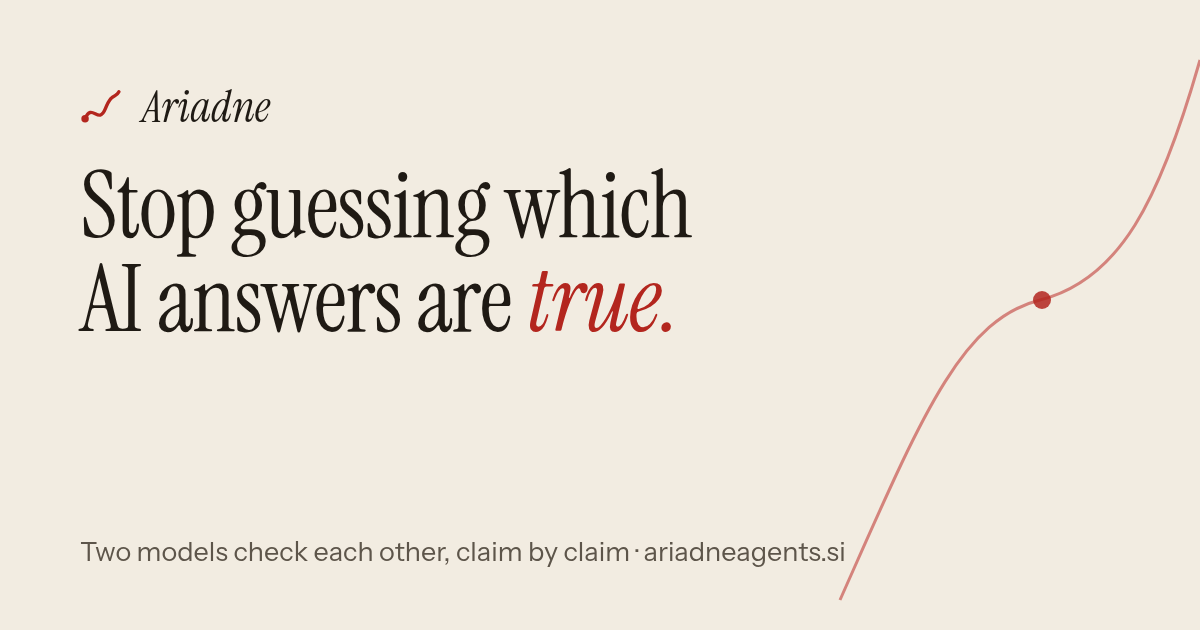
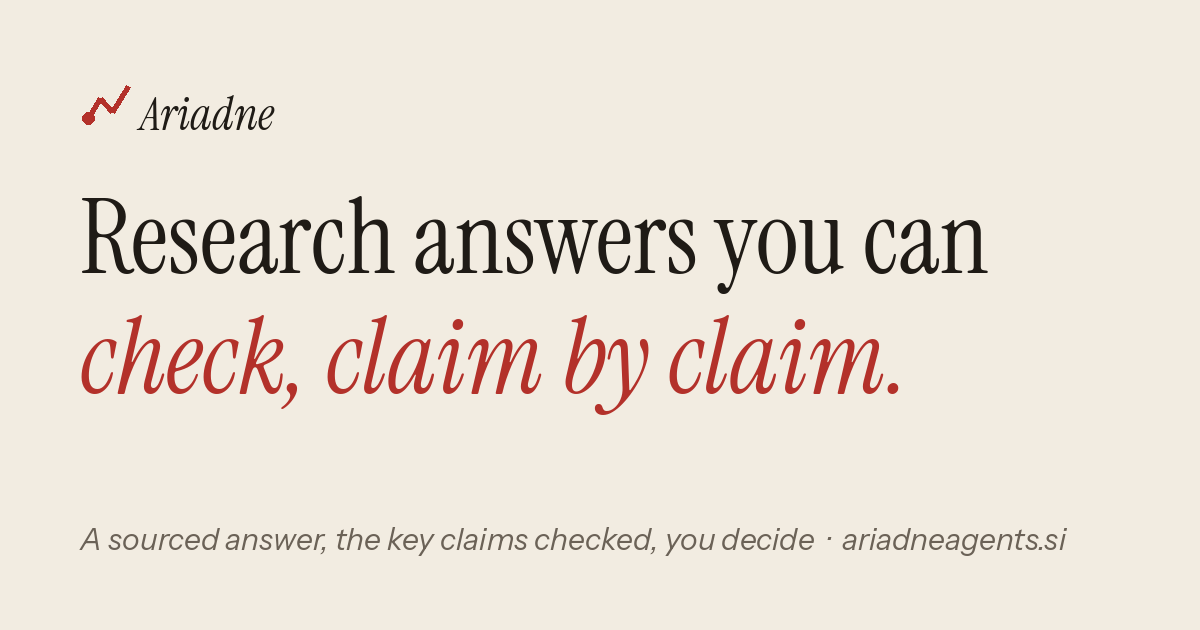
Copy matches the checker: the key claims are checked in full, the rest listed; neutral sample question on New project

diff --git a/app/page.tsx b/app/page.tsx
@@ -12,7 +12,7 @@ import "./landing.css";
 
 const TITLE = "Ariadne · Fact-checked research, claim by claim";
 const DESCRIPTION =
-  "Ariadne drafts a sourced answer to your research question, checks every claim against your sources and the web, and lets you decide on anything flagged. You approve the result and keep the full record.";
+  "Ariadne drafts a sourced answer to your research question, checks the key claims against your sources and the web, and lets you decide on anything flagged. You approve the result and keep the full record.";
 
 export const metadata: Metadata = {
   title: { absolute: TITLE },
@@ -37,7 +37,7 @@ const CF_BEACON = process.env.NEXT_PUBLIC_CF_BEACON_TOKEN;
 const STEPS = [
   { n: "1", who: "You", title: "Ask your question", text: "Write what you need to know and who it is for, and add the papers, reports or notes it should draw on." },
   { n: "2", who: "Odysseus", title: "Get a sourced draft", text: "Odysseus writes an answer with a citation next to each claim. Not quite right? Say what to change and it redrafts." },
-  { n: "3", who: "Daedalus", title: "Every claim is checked", text: "Daedalus checks each claim against your sources and the web, and shows the evidence and the link for its verdict." },
+  { n: "3", who: "Daedalus", title: "The key claims are checked", text: "Daedalus checks the claims that matter most in full against your sources and the web, with the evidence and a link for each verdict. Any others are listed so you can see what was not checked." },
   { n: "4", who: "You", title: "Decide, approve, keep the record", text: "You accept, edit or reject what is flagged. Odysseus revises, you approve, and the whole thread is yours to export." },
 ];
 
@@ -57,7 +57,7 @@ const GETS = [
 ];
 
 const FAQ = [
-  { q: "What do Odysseus and Daedalus do?", a: "Odysseus writes: it drafts the answer from your brief and sources and revises it with your decisions. Daedalus checks: it reviews each claim against your sources and the web and shows its evidence. You make the calls in between." },
+  { q: "What do Odysseus and Daedalus do?", a: "Odysseus writes: it drafts the answer from your brief and sources and revises it with your decisions. Daedalus checks: it reviews the claims that matter most against your sources and the web, shows its evidence, and lists any it did not check in full. You make the calls in between." },
   { q: "Does a check mean the answer is guaranteed correct?", a: "No. The check tells you which claims a source supports and which need your attention, and shows you why. You remain the judge of the final answer." },
   { q: "What sources can I add?", a: "PDF, DOCX and Markdown files. Their text is read in your browser and used for the draft and the check. Daedalus can also search the web." },
   { q: "Who can see my projects?", a: "Only you. The Ariadne team cannot open your projects unless you choose to share one with us when you send feedback, and you can withdraw that in Settings." },
@@ -129,7 +129,7 @@ export default function Landing() {
                 Research answers you can <em>check, claim by claim.</em>
               </h1>
               <p className="lp-lede">
-                Ariadne drafts a sourced answer to your question, reviews every claim against your sources and the web, and
+                Ariadne drafts a sourced answer to your question, checks the key claims against your sources and the web, and
                 brings you only what needs a decision. You approve the result and keep the full record.
               </p>
               <div className="lp-cta">

diff --git a/components/NewProjectFlow.tsx b/components/NewProjectFlow.tsx
@@ -23,7 +23,7 @@ export function draftBrief(goal: string, details: string, files: { name: string;
 
 // A real, checkable question with a public authoritative source (root-servers.org).
 // The app never states the answer itself; the models find it and Daedalus checks it.
-const SAMPLE_GOAL = "How many DNS root server instances are in Canada?";
+const SAMPLE_GOAL = "What do recent systematic reviews say about exercise therapy for chronic low back pain?";
 const SAMPLE_DETAILS =
   "Give the current count of root server instances located in Canada, which root servers (letters) they belong to, and the cities. Use root-servers.org as the authoritative source and give the date of the data.";
 
@@ -104,7 +104,7 @@ export function NewProjectFlow({ runsLeft, runsLimit }: { runsLeft: number; runs
       {step === "describe" ? (
         <div className="mt-6 space-y-5">
           <p className="text-sm leading-normal text-ink-dim">
-            Odysseus answers from your brief and files. When the draft looks right to you, Daedalus checks each claim against your files and the web. You judge only what it flags.
+            Odysseus answers from your brief and files. When the draft looks right to you, Daedalus checks the key claims against your files and the web. You judge only what it flags.
           </p>
           <div className="text-sm">
             <span className="text-ink-dim">Sample question: </span>

diff --git a/components/IntroTour.tsx b/components/IntroTour.tsx
@@ -12,8 +12,8 @@ const STEPS = [
     body: "Read the draft. If it is what you asked for, move on to the check. If not, tell Odysseus what to change and it redrafts.",
   },
   {
-    title: "Daedalus checks each claim",
-    body: "Every claim is checked against your sources and the web, with the evidence and a link. You decide on what is flagged: accept, edit or reject.",
+    title: "Daedalus checks the key claims",
+    body: "The claims that matter most are checked against your sources and the web, with the evidence and a link; any others are listed as not checked in full. You decide on what is flagged: accept, edit or reject.",
   },
   {
     title: "Tie off, approve, keep the record",

diff --git a/lib/one-liner.ts b/lib/one-liner.ts
@@ -3,7 +3,7 @@
  * first-run "What are you making?" dialog, so the three never drift apart.
  */
 export const ONE_LINER =
-  "Ariadne drafts a sourced answer to your research question, checks every claim against your sources and the web, and brings you only what needs a decision.";
+  "Ariadne drafts a sourced answer to your research question, checks the key claims against your sources and the web, and brings you only what needs a decision.";
 
 /** The wedge, in order. "Tie off" is the knot. */
 export const WEDGE_STEPS = ["Draft", "Challenge", "Judge", "Tie Off"] as const;

diff --git a/lib/site.ts b/lib/site.ts
@@ -2,5 +2,5 @@
 export const SITE_URL = "https://ariadneagents.si";
 export const SITE_NAME = "Ariadne";
 export const TAGLINE = "AI fact-checking for researchers";
-export const OG_IMAGE = { url: "/og.png", width: 1200, height: 630, alt: "Ariadne: AI fact-checking for researchers. Two models check each other, claim by claim." };
+export const OG_IMAGE = { url: "/og.png", width: 1200, height: 630, alt: "Ariadne: research answers you can check, claim by claim." };
 export const SOCIAL = ["https://x.com/ariadne_agents", "https://www.instagram.com/ariadne_agents/"];
